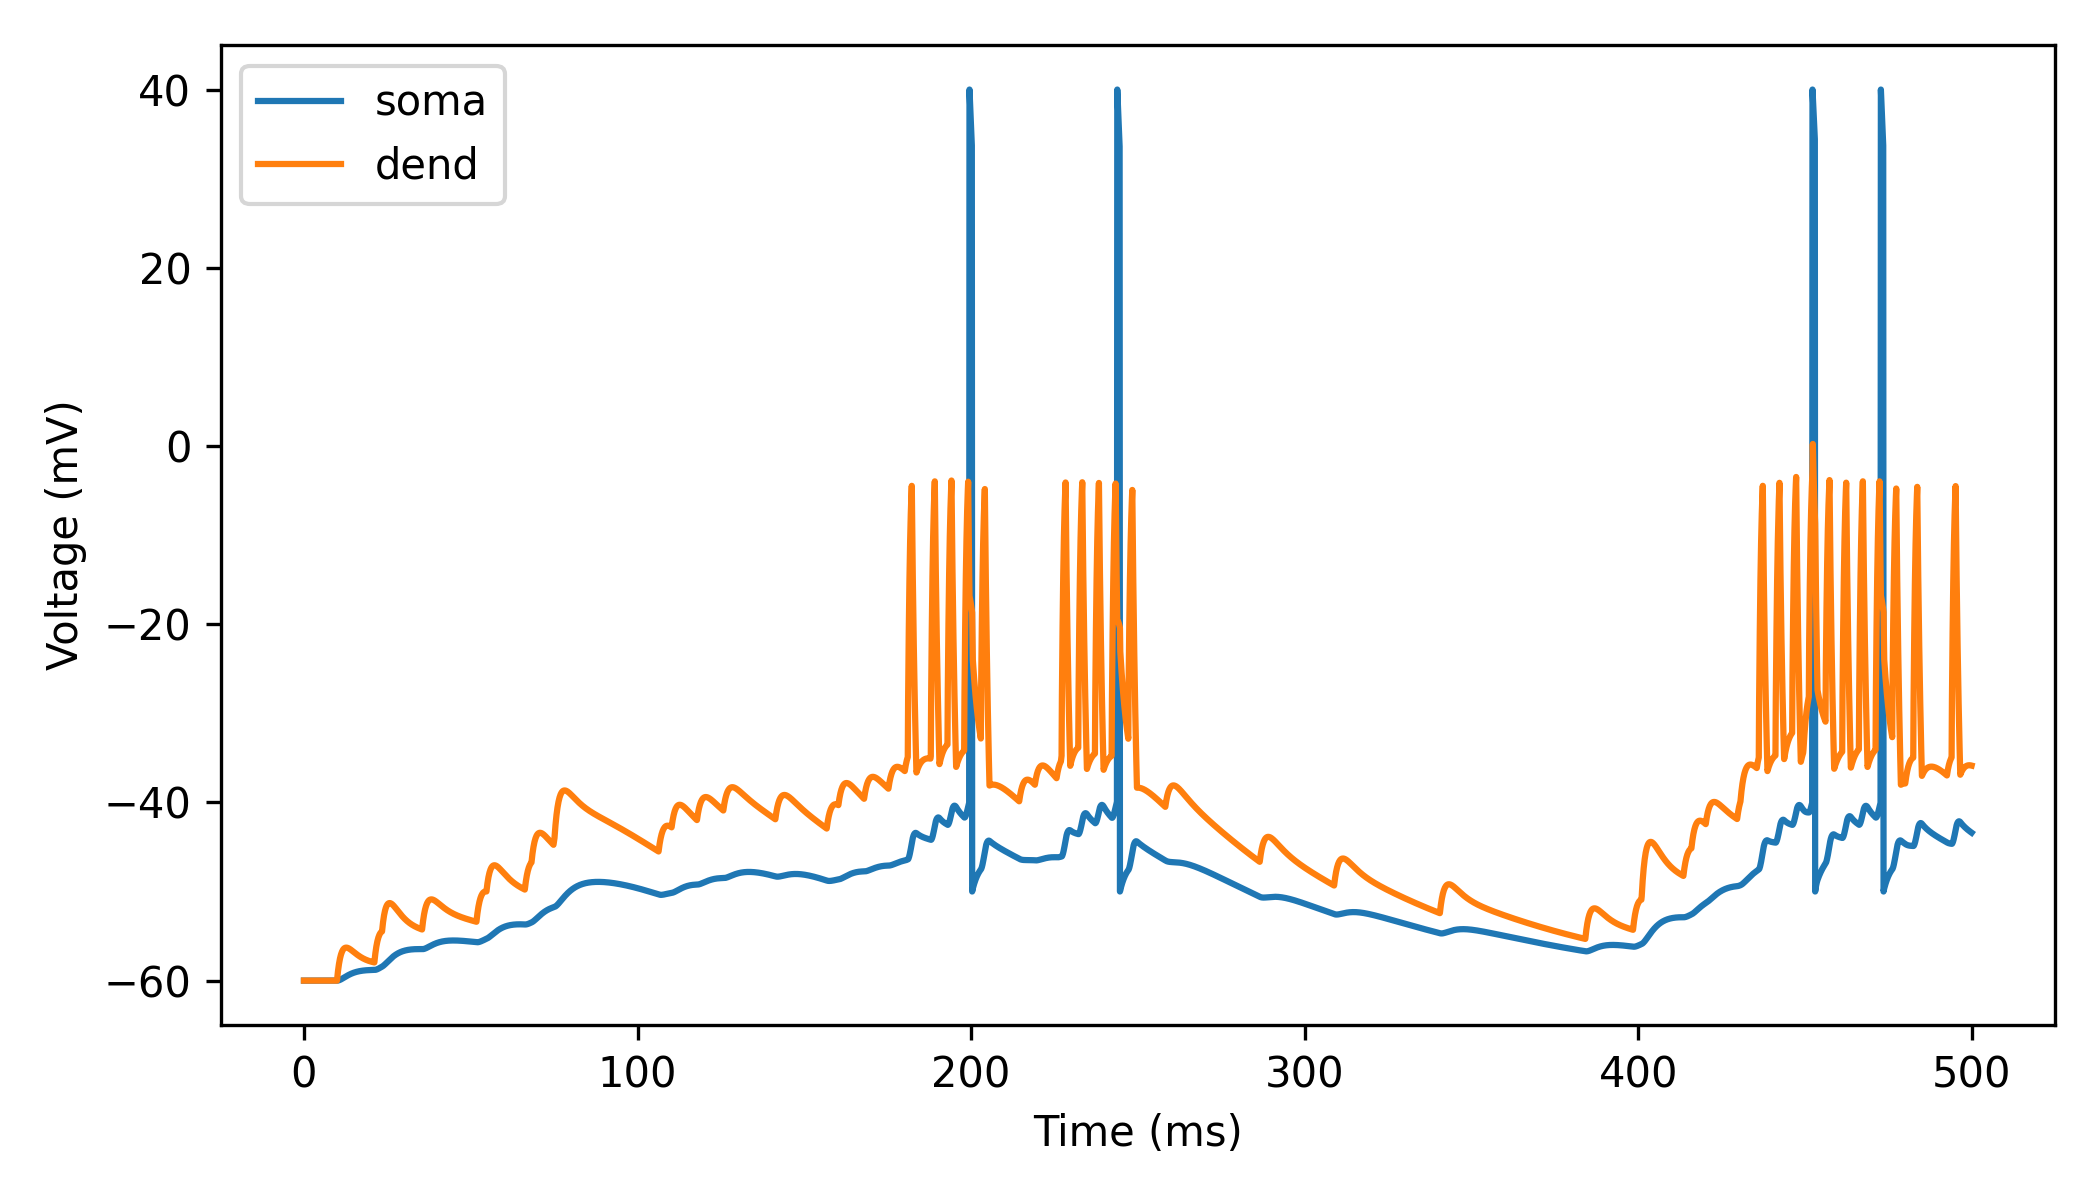
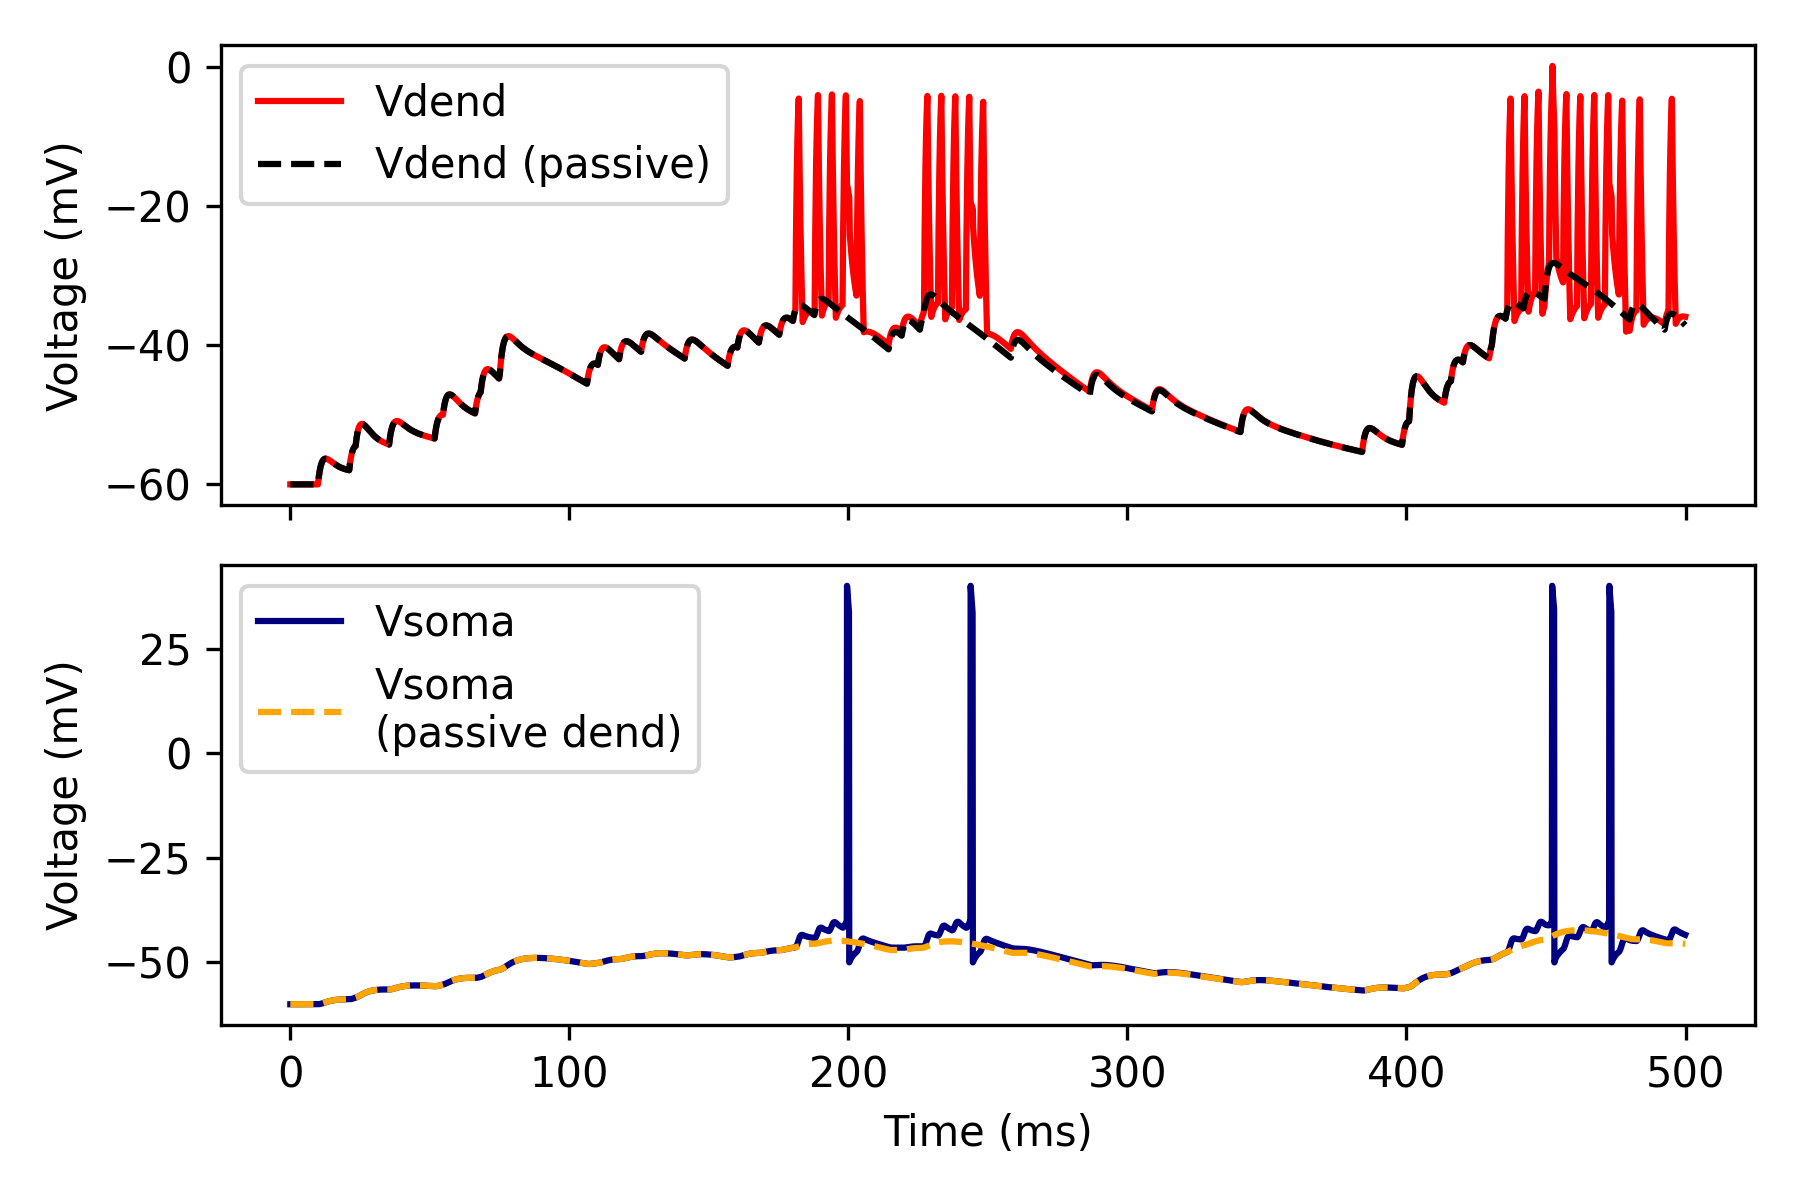
Finished docs

diff --git a/examples_new/comp_amplification.py b/examples_new/comp_amplification.py
@@ -5,12 +5,15 @@ Active vs passive dendrites
 
 Description
 -----------
+In pyramidal neurons, distal synapses have often a minute effect on the somatic
+membrane potential due to strong dendritic attenuation. However, the activation
+of dendritic spikes can amplify synaptic inputs that are temporally correlated,
+increasing the probability of somatic AP generation.
 
-This examples shows:
+In this example we show:
 
-- How to create a compartmental model with active or passive dendrites.
-
-
+- How to create a compartmental model with passive or active dendrites.
+- How dendritic spiking may affect somatic AP generation.
 """
 
 import brian2 as b
@@ -18,56 +21,84 @@ from brian2.units import Hz, cm, ms, mV, nS, ohm, pA, pF, uF, um, uS
 
 from dendrify import Dendrite, NeuronModel, Soma
 
-b.prefs.codegen.target = 'numpy'
+b.prefs.codegen.target = 'numpy' # faster for simple simulations
 
-# create soma
-b.seed(123)
+# Create neuron model with passive dendrites
 soma = Soma('soma', cm_abs=200*pF, gl_abs=10*nS)
-
-# create dendrite
 dend = Dendrite('dend', cm_abs=50*pF, gl_abs=2.5*nS)
 dend.synapse('AMPA', tag='x', g=3*nS,  t_decay=2*ms)
 dend.synapse('NMDA', tag='x', g=3*nS,  t_decay=60*ms)
-dend.dspikes('Na', g_rise=30*nS, g_fall=14*nS)
+model_passive = NeuronModel([(soma, dend, 15*nS)], v_rest=-60*mV)
 
-# make model
-model = NeuronModel([(soma, dend, 15*nS)], v_rest=-60*mV)
-model.config_dspikes('Na', threshold=-35*mV,
+# Add dendritic spikes and create a neuron model with active dendrites
+dend.dspikes('Na', g_rise=30*nS, g_fall=14*nS)
+model_active = NeuronModel([(soma, dend, 15*nS)], v_rest=-60*mV)
+model_active.config_dspikes('Na', threshold=-35*mV,
                      duration_rise=1.2*ms, duration_fall=2.4*ms,
                      offset_fall=0.2*ms, refractory=5*ms,
                      reversal_rise='E_Na', reversal_fall='E_K')
 
-# make neuron group
-neuron, ap_reset = model.make_neurongroup(1, method='euler', threshold='V_soma > -40*mV',
-                                reset='V_soma = 40*mV',
-                                second_reset='V_soma=-50*mV',
-                                spike_width=0.8*ms,
-                                refractory=4*ms)
+# Create a neuron group with passive dendrites
+neuron_passive, reset_p = model_passive.make_neurongroup(1, method='euler',
+                                          threshold='V_soma > -40*mV',
+                                          reset='V_soma = 40*mV',
+                                          second_reset='V_soma=-50*mV',
+                                          spike_width=0.8*ms,
+                                          refractory=4*ms)
 
-# input
-Input = b.PoissonGroup(5, rates=20*Hz)
+# Create a neuron group with active dendrites
+neuron_active, reset_a = model_active.make_neurongroup(1, method='euler',
+                                          threshold='V_soma > -40*mV',
+                                          reset='V_soma = 40*mV',
+                                          second_reset='V_soma=-50*mV',
+                                          spike_width=0.8*ms,
+                                          refractory=4*ms)
 
-# synapse
-S = b.Synapses(Input, neuron, on_pre='s_AMPA_x_dend += 1; s_NMDA_x_dend += 1')
-S.connect(p=1)
+# # Create random Poisson input
+Input_p = b.PoissonGroup(5, rates=20*Hz)
+Input_a = b.PoissonGroup(5, rates=20*Hz)
 
-# record
+# Create synapses
+S_p = b.Synapses(Input_p, neuron_passive, on_pre='s_AMPA_x_dend += 1; s_NMDA_x_dend += 1')
+S_p.connect(p=1)
+
+S_a = b.Synapses(Input_a, neuron_active, on_pre='s_AMPA_x_dend += 1; s_NMDA_x_dend += 1')
+S_a.connect(p=1)
+
+# Record voltages
 vars = ['V_soma', 'V_dend']
-M = b.StateMonitor(neuron, vars, record=True)
+M_p = b.StateMonitor(neuron_passive, vars, record=True)
+M_a = b.StateMonitor(neuron_active, vars, record=True)
 
-# run
-b.run(500*ms)
+# Run simulation
+b.seed(123) # for reproducibility
+net_passive = b.Network(neuron_passive, reset_p, Input_p, S_p, M_p)
+net_passive.run(500*ms)
+b.start_scope() # clear previous simulation
+b.seed(123) # for reproducibility
+net_active = b.Network(neuron_active, reset_a, Input_a, S_a, M_a)
+net_active.run(500*ms)
 
-# visualize
-time = M.t/ms
-v1 = M.V_soma[0]/mV
-v2 = M.V_dend[0]/mV
+# Visualize results
+time_p = M_p.t/ms
+vs_p = M_p.V_soma[0]/mV
+vd_p = M_p.V_dend[0]/mV
+time_a = M_a.t/ms
+vs_a = M_a.V_soma[0]/mV
+vd_a = M_a.V_dend[0]/mV
 
-fig, ax = b.subplots(figsize=(7, 4))
-ax.plot(time, v1, label='soma')
-ax.plot(time, v2, label='dend')
-ax.set_xlabel('Time (ms)')
-ax.set_ylabel('Voltage (mV)')
-ax.legend(loc='best')
+fig, axes = b.subplots(2, 1, figsize=(6, 4), sharex=True)
+ax0, ax1 = axes
+ax0.plot(time_a, vd_a, label='Vdend', c='red')
+ax0.plot(time_p, vd_p, '--', label='Vdend (passive)', c='black')
+ax0.set_ylabel('Voltage (mV)')
+ax0.legend(loc=2)
+
+ax1.plot(time_a, vs_a, label='Vsoma', c='navy')
+ax1.plot(time_p, vs_p, '--', label='Vsoma\n(passive dend)', c='orange')
+ax1.set_xlabel('Time (ms)')
+ax1.set_ylabel('Voltage (mV)')
+ax1.legend(loc=2)
+
 fig.tight_layout()
 b.show()

diff --git a/docs_sphinx/source/examples/comp_amplification.rst b/docs_sphinx/source/examples/comp_amplification.rst
@@ -2,12 +2,15 @@ Active vs passive dendrites
 ===========================
 
 
+In pyramidal neurons, distal synapses have often a minute effect on the somatic
+membrane potential due to strong dendritic attenuation. However, the activation
+of dendritic spikes can amplify synaptic inputs that are temporally correlated,
+increasing the probability of somatic AP generation.
 
-This examples shows:
+In this example we show:
 
-- How to create a compartmental model with active or passive dendrites.
-
-
+- How to create a compartmental model with passive or active dendrites.
+- How dendritic spiking may affect somatic AP generation.
 
 
 .. code-block:: python
@@ -17,57 +20,85 @@ This examples shows:
     
     from dendrify import Dendrite, NeuronModel, Soma
     
-    b.prefs.codegen.target = 'numpy'
+    b.prefs.codegen.target = 'numpy' # faster for simple simulations
     
-    # create soma
-    b.seed(123)
+    # Create neuron model with passive dendrites
     soma = Soma('soma', cm_abs=200*pF, gl_abs=10*nS)
-    
-    # create dendrite
     dend = Dendrite('dend', cm_abs=50*pF, gl_abs=2.5*nS)
     dend.synapse('AMPA', tag='x', g=3*nS,  t_decay=2*ms)
     dend.synapse('NMDA', tag='x', g=3*nS,  t_decay=60*ms)
-    dend.dspikes('Na', g_rise=30*nS, g_fall=14*nS)
+    model_passive = NeuronModel([(soma, dend, 15*nS)], v_rest=-60*mV)
     
-    # make model
-    model = NeuronModel([(soma, dend, 15*nS)], v_rest=-60*mV)
-    model.config_dspikes('Na', threshold=-35*mV,
+    # Add dendritic spikes and create a neuron model with active dendrites
+    dend.dspikes('Na', g_rise=30*nS, g_fall=14*nS)
+    model_active = NeuronModel([(soma, dend, 15*nS)], v_rest=-60*mV)
+    model_active.config_dspikes('Na', threshold=-35*mV,
                          duration_rise=1.2*ms, duration_fall=2.4*ms,
                          offset_fall=0.2*ms, refractory=5*ms,
                          reversal_rise='E_Na', reversal_fall='E_K')
     
-    # make neuron group
-    neuron, ap_reset = model.make_neurongroup(1, method='euler', threshold='V_soma > -40*mV',
-                                    reset='V_soma = 40*mV',
-                                    second_reset='V_soma=-50*mV',
-                                    spike_width=0.8*ms,
-                                    refractory=4*ms)
+    # Create a neuron group with passive dendrites
+    neuron_passive, reset_p = model_passive.make_neurongroup(1, method='euler',
+                                              threshold='V_soma > -40*mV',
+                                              reset='V_soma = 40*mV',
+                                              second_reset='V_soma=-50*mV',
+                                              spike_width=0.8*ms,
+                                              refractory=4*ms)
     
-    # input
-    Input = b.PoissonGroup(5, rates=20*Hz)
+    # Create a neuron group with active dendrites
+    neuron_active, reset_a = model_active.make_neurongroup(1, method='euler',
+                                              threshold='V_soma > -40*mV',
+                                              reset='V_soma = 40*mV',
+                                              second_reset='V_soma=-50*mV',
+                                              spike_width=0.8*ms,
+                                              refractory=4*ms)
     
-    # synapse
-    S = b.Synapses(Input, neuron, on_pre='s_AMPA_x_dend += 1; s_NMDA_x_dend += 1')
-    S.connect(p=1)
+    # # Create random Poisson input
+    Input_p = b.PoissonGroup(5, rates=20*Hz)
+    Input_a = b.PoissonGroup(5, rates=20*Hz)
     
-    # record
+    # Create synapses
+    S_p = b.Synapses(Input_p, neuron_passive, on_pre='s_AMPA_x_dend += 1; s_NMDA_x_dend += 1')
+    S_p.connect(p=1)
+    
+    S_a = b.Synapses(Input_a, neuron_active, on_pre='s_AMPA_x_dend += 1; s_NMDA_x_dend += 1')
+    S_a.connect(p=1)
+    
+    # Record voltages
     vars = ['V_soma', 'V_dend']
-    M = b.StateMonitor(neuron, vars, record=True)
+    M_p = b.StateMonitor(neuron_passive, vars, record=True)
+    M_a = b.StateMonitor(neuron_active, vars, record=True)
     
-    # run
-    b.run(500*ms)
+    # Run simulation
+    b.seed(123) # for reproducibility
+    net_passive = b.Network(neuron_passive, reset_p, Input_p, S_p, M_p)
+    net_passive.run(500*ms)
+    b.start_scope() # clear previous simulation
+    b.seed(123) # for reproducibility
+    net_active = b.Network(neuron_active, reset_a, Input_a, S_a, M_a)
+    net_active.run(500*ms)
     
-    # visualize
-    time = M.t/ms
-    v1 = M.V_soma[0]/mV
-    v2 = M.V_dend[0]/mV
+    # Visualize results
+    time_p = M_p.t/ms
+    vs_p = M_p.V_soma[0]/mV
+    vd_p = M_p.V_dend[0]/mV
+    time_a = M_a.t/ms
+    vs_a = M_a.V_soma[0]/mV
+    vd_a = M_a.V_dend[0]/mV
     
-    fig, ax = b.subplots(figsize=(7, 4))
-    ax.plot(time, v1, label='soma')
-    ax.plot(time, v2, label='dend')
-    ax.set_xlabel('Time (ms)')
-    ax.set_ylabel('Voltage (mV)')
-    ax.legend(loc='best')
+    fig, axes = b.subplots(2, 1, figsize=(6, 4), sharex=True)
+    ax0, ax1 = axes
+    ax0.plot(time_a, vd_a, label='Vdend', c='red')
+    ax0.plot(time_p, vd_p, '--', label='Vdend (passive)', c='black')
+    ax0.set_ylabel('Voltage (mV)')
+    ax0.legend(loc=2)
+    
+    ax1.plot(time_a, vs_a, label='Vsoma', c='navy')
+    ax1.plot(time_p, vs_p, '--', label='Vsoma\n(passive dend)', c='orange')
+    ax1.set_xlabel('Time (ms)')
+    ax1.set_ylabel('Voltage (mV)')
+    ax1.legend(loc=2)
+    
     fig.tight_layout()
     b.show()
 

diff --git a/docs_sphinx/source/support.rst b/docs_sphinx/source/support.rst
@@ -1,0 +1,18 @@
+Support
+=======
+
+Dendrify was created by `Michalis Pagkalos <https://twitter.com/MPagkalos>`_
+and is currently maintained by Michalis Pagkalos and Spyros Chavlis, both
+currently members of the `Poirazi Lab <https://dendrites.gr>`_ .
+
+If you run into any issues or have questions about using Dendrify, you can
+either:
+
+- E-mail us at dendrify@dendrites.gr
+- Open a new issue on `GitHub <https://github.com/Poirazi-Lab/dendrify>`_
+
+.. tip::
+
+   To facilitate communication, please include a minimal working example that
+   reproduces your issue. This will help us understand your problem and
+   provide a faster solution.

diff --git a/docs_sphinx/source/api/models.rst b/docs_sphinx/source/api/models.rst
@@ -6,8 +6,8 @@ Model library
    Dendrify relies on Brian's :doc:`Equations-based <brian2:user/equations>`
    approach to define models as systems of first order ordinary differential
    equations. For convenience, Dendrify includes a library of default models
-   (see below), however users can also provide custom equations. **The model
-   list below is not exhaustive and will be updated in the future**.
+   (see below), however users can also provide custom equations. **The list
+   below is not exhaustive and will be updated in the future**.
 
 
 .. _somatic_models:

diff --git a/docs_sphinx/source/index.rst b/docs_sphinx/source/index.rst
@@ -92,8 +92,9 @@ the impact of dendrites on network-level functions.
    :maxdepth: 1
    :caption: Useful information
 
-   papers
+   support
    changelog
+   papers
    code_of_conduct
 
 
